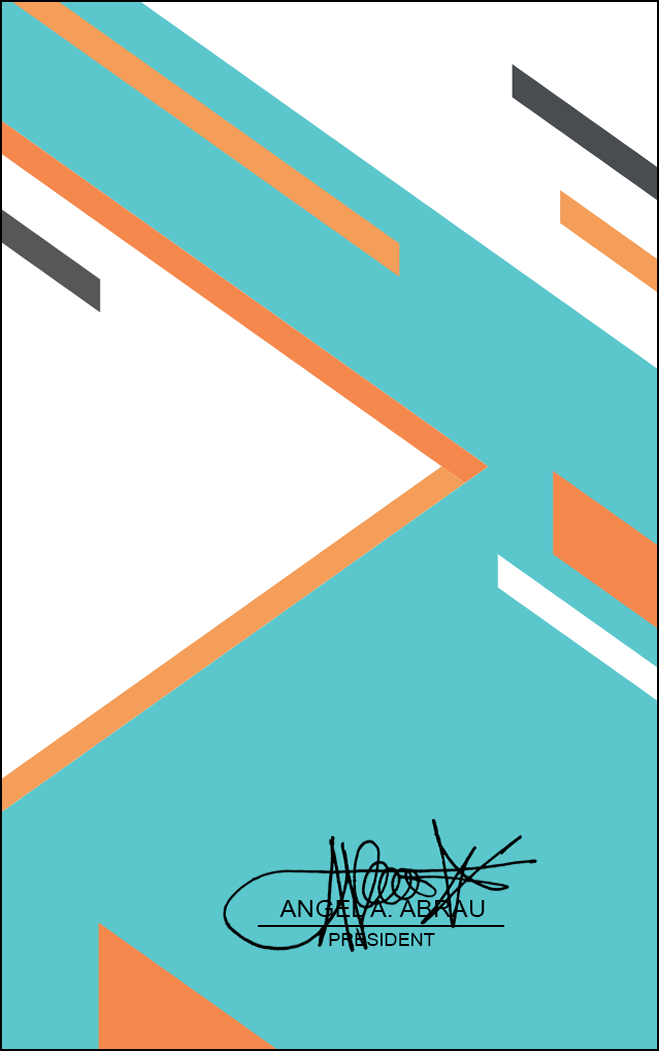
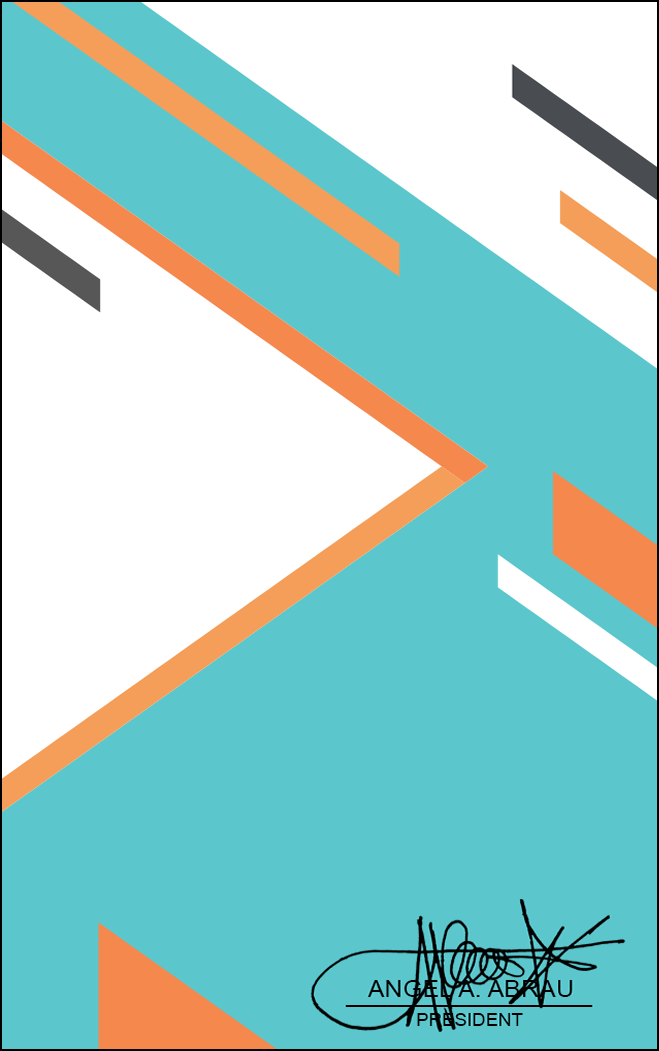
fixed id information and add print

Changed region(s): [[0.3642, 0.7916, 0.9408, 1.0], [0.5159, 0.9743, 0.5766, 1.0], [0.3338, 0.8525, 0.3642, 0.883]]

diff --git a/components/hrms/Employee/201/Details/EmployeeIDBack.vue b/components/hrms/Employee/201/Details/EmployeeIDBack.vue
@@ -1,5 +1,95 @@
+<script setup>
+import vueQr from "vue-qr/src/packages/vue-qr.vue"
+import { storeToRefs } from "pinia"
+import { useEmployeeInfo } from "@/stores/hrms/employee"
+const employee = useEmployeeInfo()
+
+const { information } = storeToRefs(employee)
+</script>
 <template>
-    <div class="w-full shadow-lg ">
-        <img src="/back.fw.png" alt="front-id">
+    <div class="w-full shadow-lg relative">
+        <img class="w-full min-w-80 cover" src="/back.fw.png" alt="front" draggable="false">
+        <div class="w-full absolute md:top-[0.5rem] top-[0.5rem] text-right">
+            <p class="font-light text-xs px-2">
+                {{ employee.presentAddress }}
+            </p>
+            <p class="font-light text-xs px-2">
+                {{ information.cellphone }}
+            </p>
+        </div>
+        <div class="w-full absolute md:top-[7rem] top-[7rem] text-left flex gap-2">
+            <p class="text-sm font-bold px-2">
+                IN CASE OF EMERGENCY PLEASE NOTIFY
+            </p>
+        </div>
+        <div class="w-2/3 absolute md:top-[9rem] top-[9rem] text-left flex gap-2">
+            <div class="w-full text-center">
+                <p class="text-lg font-light drop-shadow-md">
+                    {{ information.contact_person.name }}
+                </p>
+                <p class="font-light text-xs px-2">
+                    {{ employee.contactPersonAddress }}
+                </p>
+                <p class="font-light text-xs px-2">
+                    {{ employee.contact_person }}
+                </p>
+            </div>
+        </div>
+        <div class="w-full absolute md:top-[15rem] top-[15rem] text-left">
+            <div class="w-2/3 text-left p-2">
+                <div class="flex gap-2">
+                    <p class="text-xs font-light drop-shadow-md">
+                        TIN:
+                    </p>
+                    <p class="text-xs font-light drop-shadow-md">
+                        {{ information.company_employments.tin_number ?? 'NO DETAILS' }}
+                    </p>
+                </div>
+                <div class="flex gap-2">
+                    <p class="text-xs font-light drop-shadow-md">
+                        PAG-IBIG:
+                    </p>
+                    <p class="text-xs font-light drop-shadow-md">
+                        {{ information.company_employments.pagibig_number ?? 'NO DETAILS' }}
+                    </p>
+                </div>
+                <div class="flex gap-2">
+                    <p class="text-xs font-light drop-shadow-md">
+                        PHIC:
+                    </p>
+                    <p class="text-xs font-light drop-shadow-md">
+                        {{ information.company_employments.phic_number ?? 'NO DETAILS' }}
+                    </p>
+                </div>
+                <div class="flex gap-2">
+                    <p class="text-xs font-light drop-shadow-md">
+                        SSS:
+                    </p>
+                    <p class="text-xs font-light drop-shadow-md">
+                        {{ information.company_employments.sss_number ?? 'NO DETAILS' }}
+                    </p>
+                </div>
+                <div class="flex gap-2">
+                    <p class="text-xs font-light drop-shadow-md">
+                        BIRTHDAY:
+                    </p>
+                    <p class="text-xs font-light drop-shadow-md">
+                        {{ information.birthday ?? 'NO DETAILS' }}
+                    </p>
+                </div>
+            </div>
+        </div>
+        <div class="w-full absolute md:top-[21rem] top-[20rem]">
+            <div class="w-full p-2  text-center">
+                <vue-qr
+                    id="employee-qr-code"
+                    :correct-level="3"
+                    class="w-1/2"
+                    logo-src="/evenpar.jpg"
+                    :logo-margin="5"
+                    :text="information.company_employments.employeedisplay_id"
+                />
+            </div>
+        </div>
     </div>
 </template>

diff --git a/components/hrms/Employee/201/TabComp.vue b/components/hrms/Employee/201/TabComp.vue
@@ -67,19 +67,6 @@ const setEdit = () => {
                             Employee Identification Card
                         </button>
                     </li>
-                    <li class="mr-2" role="presentation">
-                        <button
-                            id="employeeSignatureTab"
-                            class="inline-block p-4 border-b-2 rounded-t-lg hover:text-gray-600 hover:border-gray-300 dark:hover:text-gray-300"
-                            data-tabs-target="#employeeSignature"
-                            type="button"
-                            role="tab"
-                            aria-controls="employeeSignature"
-                            aria-selected="false"
-                        >
-                            Employee Digital Signature
-                        </button>
-                    </li>
                 </ul>
             </div>
             <div v-show="employee.information.id" class="w-full p-2">
@@ -105,11 +92,15 @@ const setEdit = () => {
                     <HrmsEmployee201DocumentsMemo />
                 </div>
                 <div id="employeeId" class="hidden p-4 rounded-lg bg-gray-50 dark:bg-gray-800" role="tabpanel" aria-labelledby="employee-id">
-                    <HrmsEmployee201IdentificationCard />
-                    <LayoutFormPsSignaturePad />
-                </div>
-                <div id="employeeSignature" class="p-4 rounded-lg bg-gray-50 dark:bg-gray-800" role="tabpanel" aria-labelledby="employee-signature">
-                    <LayoutFormPsSignaturePad />
+                    <div v-if="employee.information.id">
+                        <HrmsEmployee201IdentificationCard />
+                        <LayoutFormPsSignaturePad v-if="editable" />
+                    </div>
+                    <div v-else>
+                        <p class="text-lg text-gray-400">
+                            Employee Identification Card
+                        </p>
+                    </div>
                 </div>
             </div>
         </div>

diff --git a/components/hrms/Employee/201/Details/EmployeeIDFront.vue b/components/hrms/Employee/201/Details/EmployeeIDFront.vue
@@ -1,5 +1,27 @@
+<script setup>
+import { storeToRefs } from "pinia"
+import { useEmployeeInfo } from "@/stores/hrms/employee"
+const employee = useEmployeeInfo()
+
+const { information } = storeToRefs(employee)
+</script>
 <template>
-    <div class="w-full shadow-lg ">
-        <img src="/front.fw.png" alt="front-id">
+    <div class="w-full shadow-lg relative">
+        <img class="w-full min-w-80 cover" src="/front.fw.png" alt="front" draggable="false">
+        <div class="w-full absolute md:top-[9rem] top-[10rem] text-center">
+            <p class="font-light text-xl">
+                {{ information.company_employments.employeedisplay_id }}
+            </p>
+        </div>
+        <div class="w-full absolute md:top-[27rem] top-[30.5rem] text-center">
+            <p class="text-xl font-bold">
+                {{ information.fullname_first }}
+            </p>
+        </div>
+        <div class="w-full absolute md:top-[29.5rem] top-[32.5rem] text-center">
+            <p class="text-xl font-bold">
+                DIVISION SUPERVISOR
+            </p>
+        </div>
     </div>
 </template>

diff --git a/components/hrms/Employee/201/IdentificationCard.vue b/components/hrms/Employee/201/IdentificationCard.vue
@@ -1,10 +1,26 @@
+<!-- eslint-disable @typescript-eslint/no-unused-vars -->
+<script setup>
+const print = () => {
+    const printContents = document.getElementById("id-content").innerHTML
+    const originalContents = document.body.innerHTML
+    document.body.innerHTML = printContents
+    window.print()
+    window.location.reload()
+}
+</script>
 <template>
     <div class="w-full">
         <p class="font-bold text-lg p-2">
             Employee Identification Card
         </p>
     </div>
-    <div class="flex gap-4">
+    <div class="w-full flex justify-end py-2">
+        <button class="bg-green-600 text-white hover:bg-green-400 p-2" @click="print()">
+            Print
+            <Icon name="ion:printer" class="h-4 w-4 lg:h-5 lg:w-5" />
+        </button>
+    </div>
+    <div id="id-content" class="md:flex gap-4">
         <HrmsEmployee201DetailsEmployeeIDFront />
         <HrmsEmployee201DetailsEmployeeIDBack />
     </div>

diff --git a/stores/hrms/employee.ts b/stores/hrms/employee.ts
@@ -425,6 +425,16 @@ export const useEmployeeInfo = defineStore("employee", {
             }
             return perAddress
         },
+        contactPersonAddress (state) {
+            let contactAddress = ""
+            if (!state.information) {
+                return ""
+            }
+            if (state.information.contact_person) {
+                contactAddress = state.information.contact_person.street + " " + state.information.contact_person.brgy + " " + state.information.contact_person.city + " " + state.information.contact_person.province
+            }
+            return contactAddress
+        },
         presentAddressData (state) {
             let preAddress = {} as EmployeeAddress
             if (!state.information) {

diff --git a/components/layout/Form/PsSignaturePad.vue b/components/layout/Form/PsSignaturePad.vue
@@ -20,7 +20,7 @@ const undo = () => {
             :width="'500'"
             :height="'300'"
             :options="{ onBegin: () => { signature.resizeCanvas() } }"
-            class="z-50 m-auto bg-red-500"
+            class="z-50 m-auto shadow-lg"
         />
         <div class="w-full flex justify-end gap-2 mt-5">
             <button class="p-2 bg-green-600 text-white hover:bg-green-400" @click="save()">
